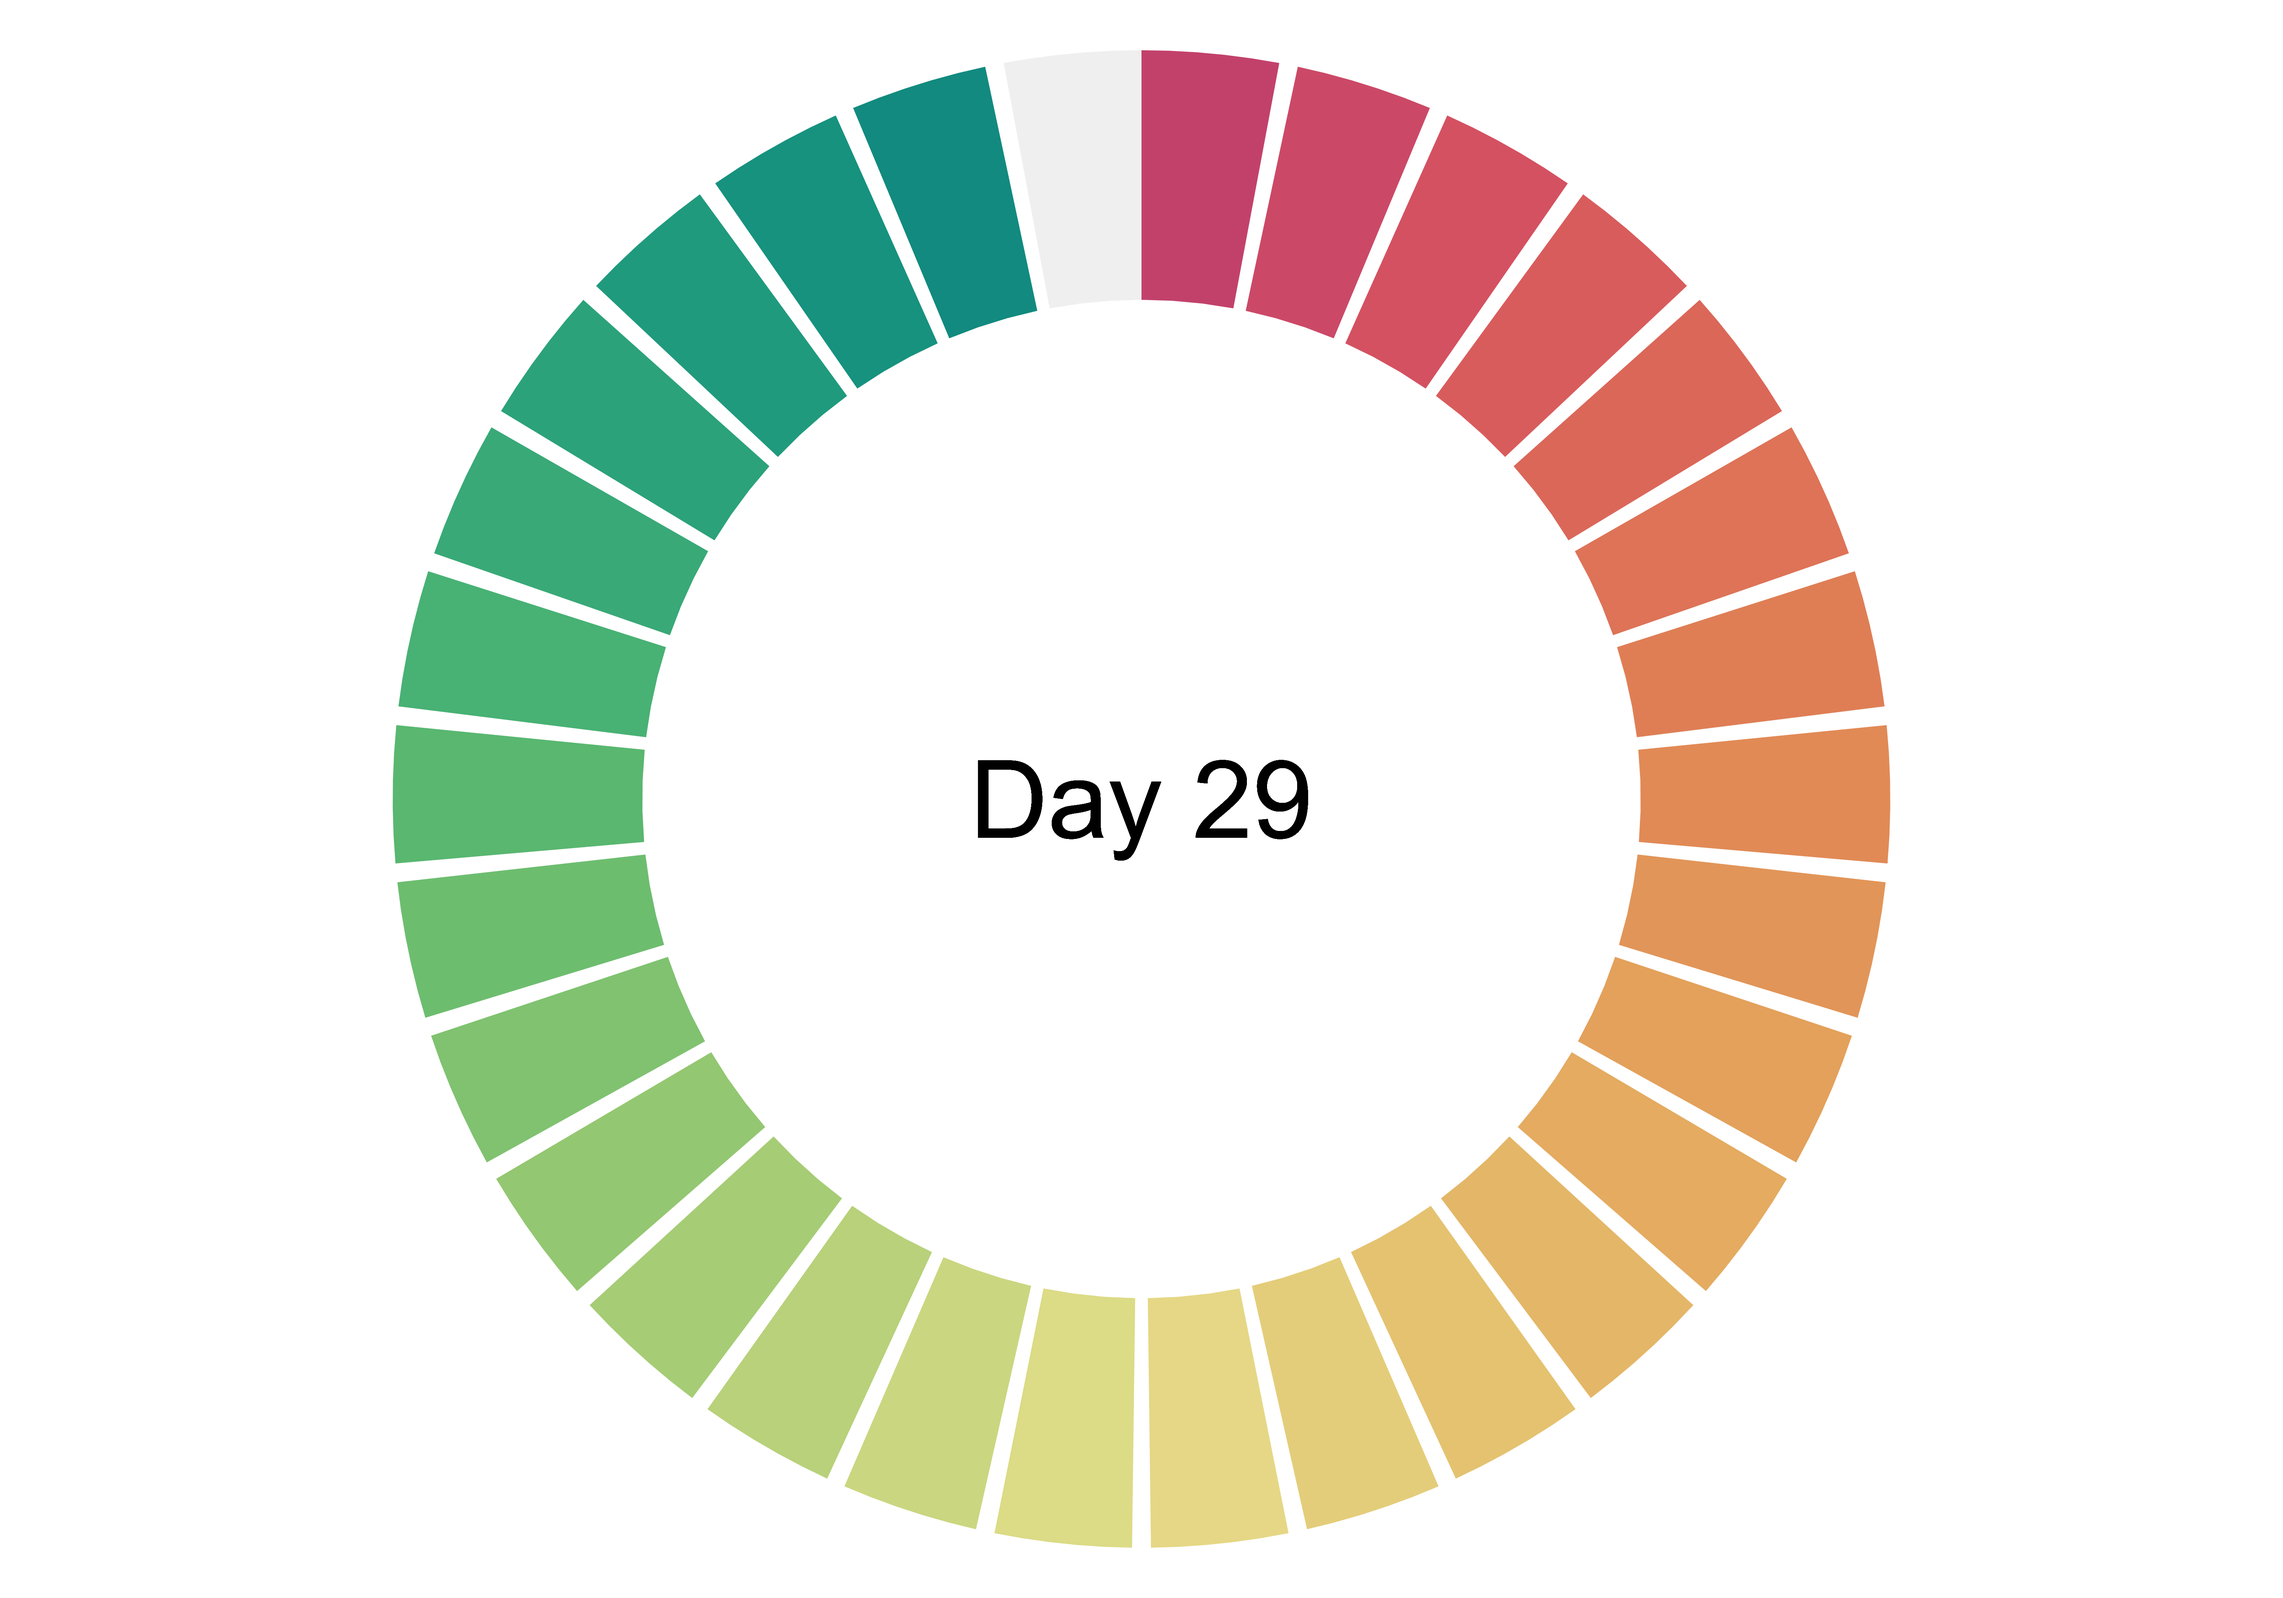
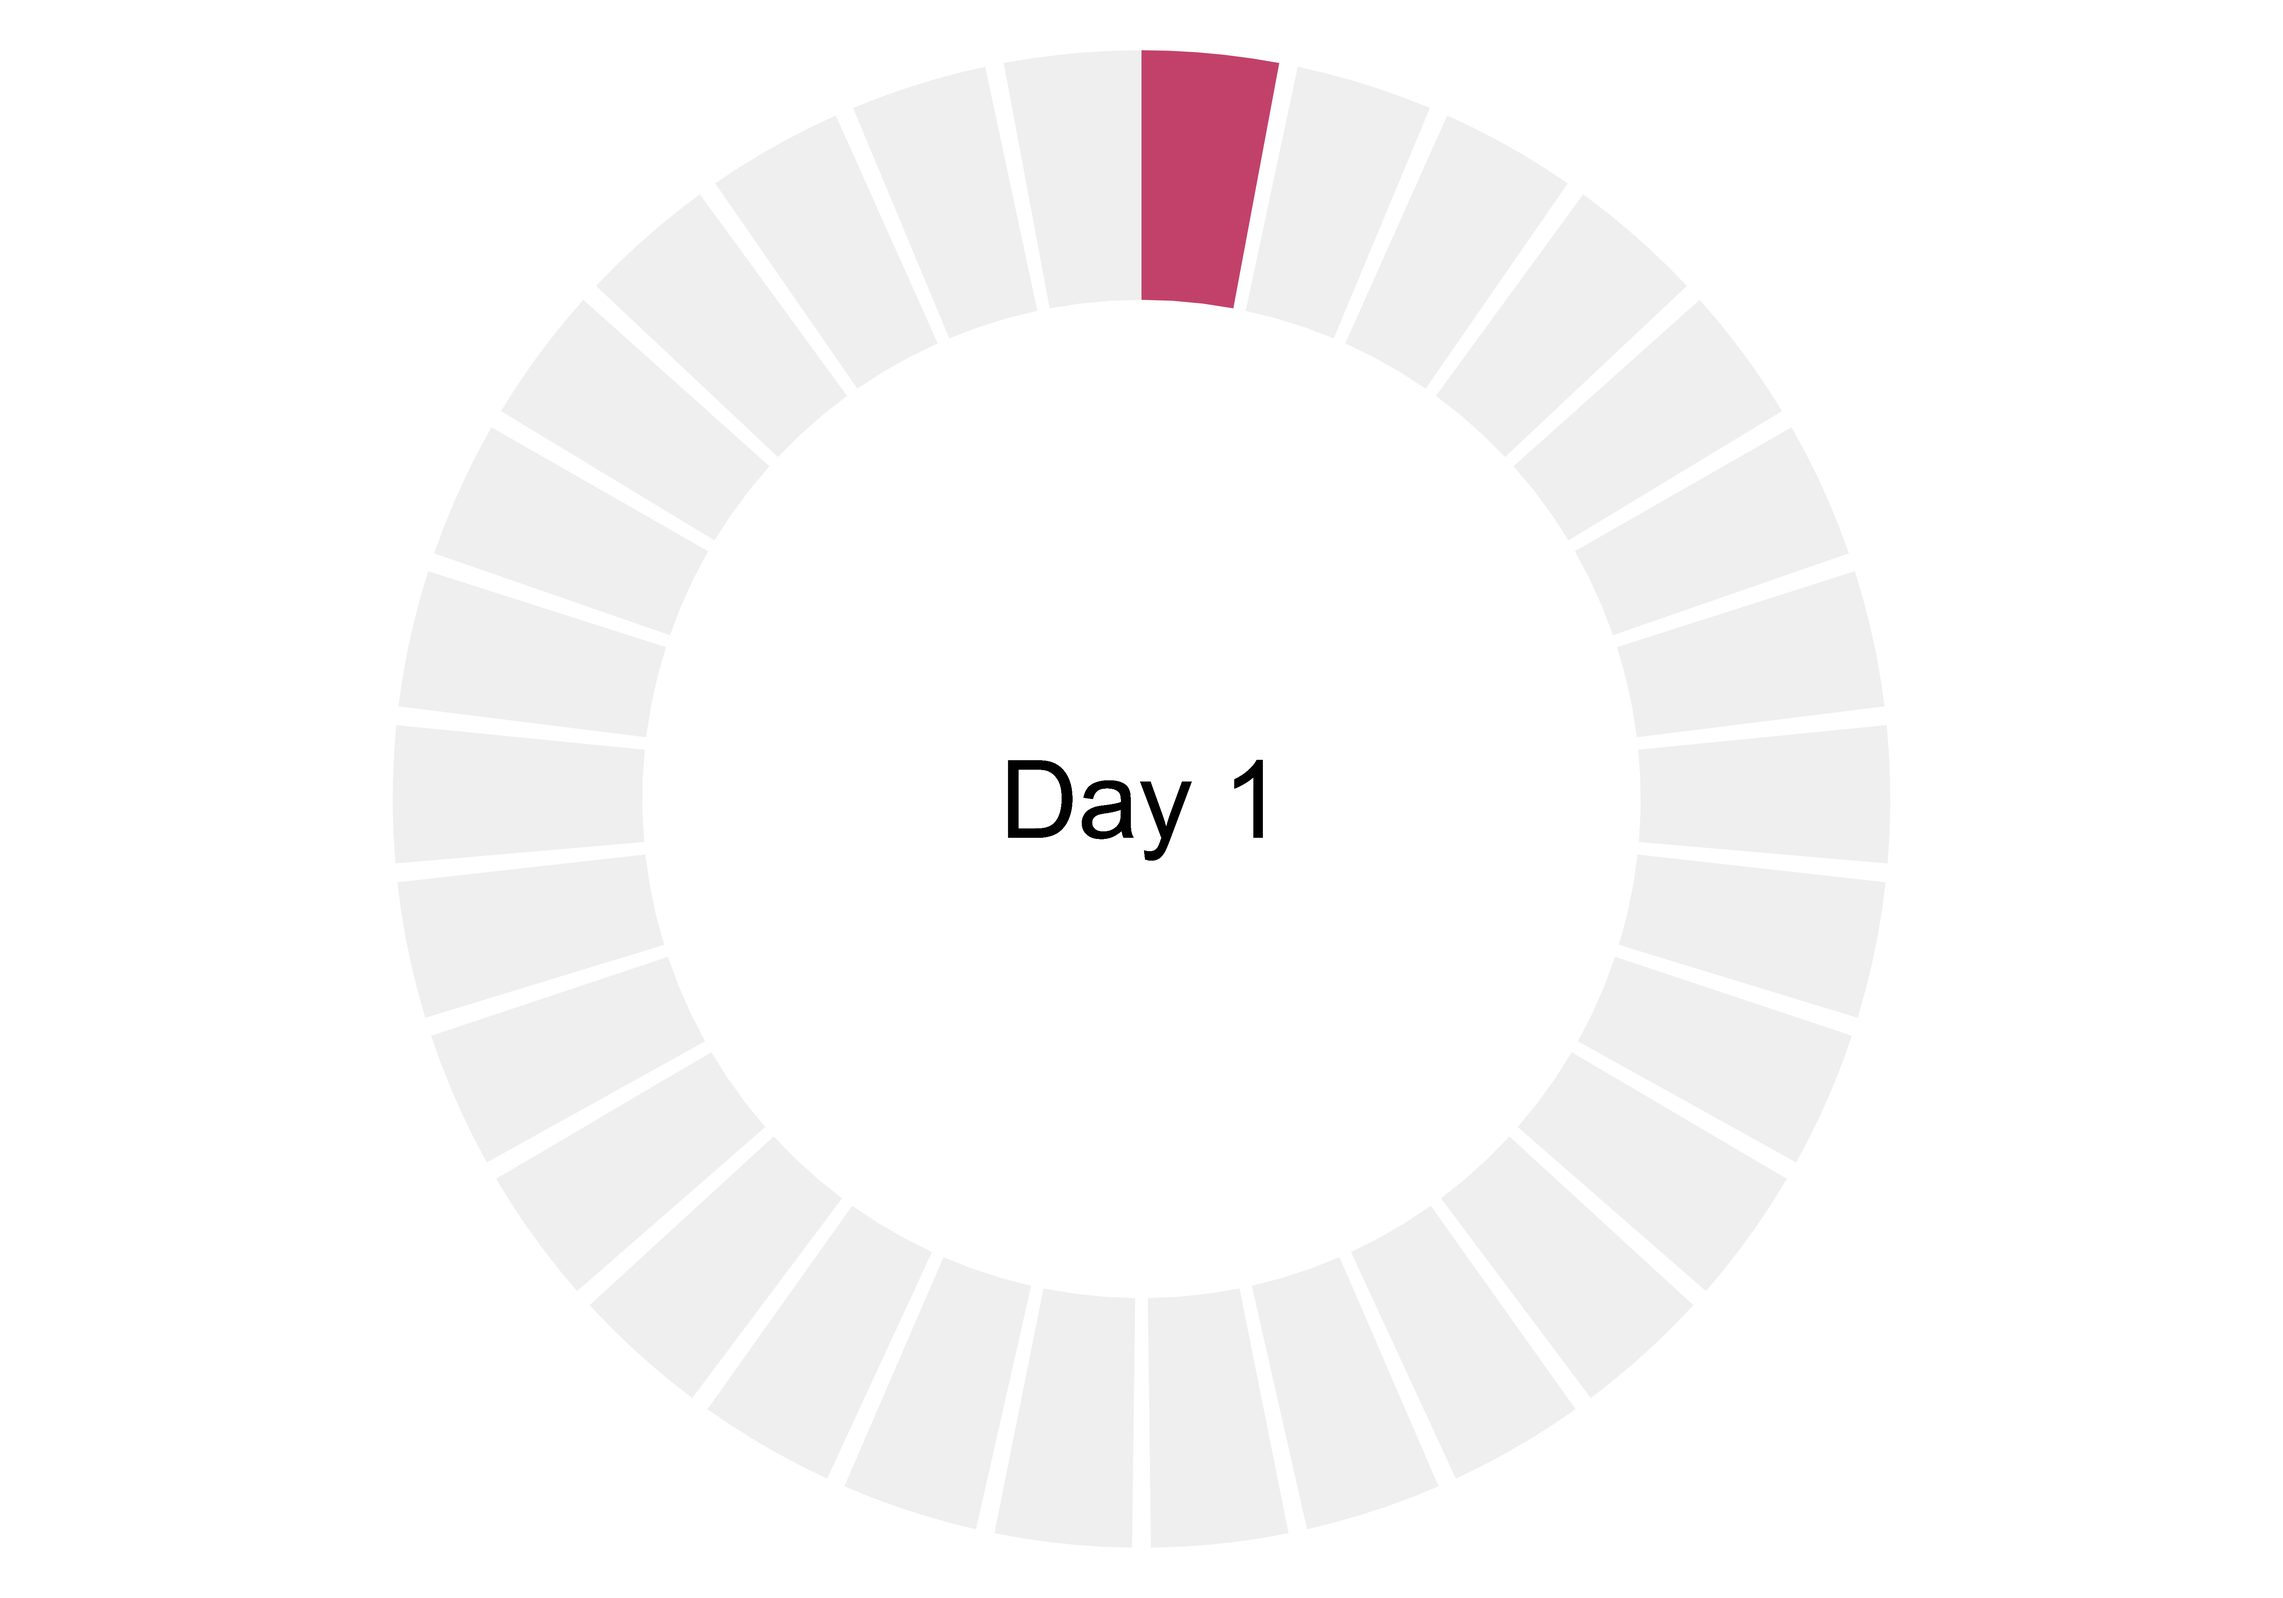
start the 2nd 30 days

Changed region(s): [[0.1558, 0.0312, 0.8415, 0.9669], [0.4052, 0.4679, 0.5922, 0.5302]]

diff --git a/README.md b/README.md
@@ -30,3 +30,4 @@ Quick Link
 [Website]:https://zhiyang.netlify.com/
 
 
+#https://ezgif.com/video-to-gif/ezgif-4-58f2d6469802.mp4
